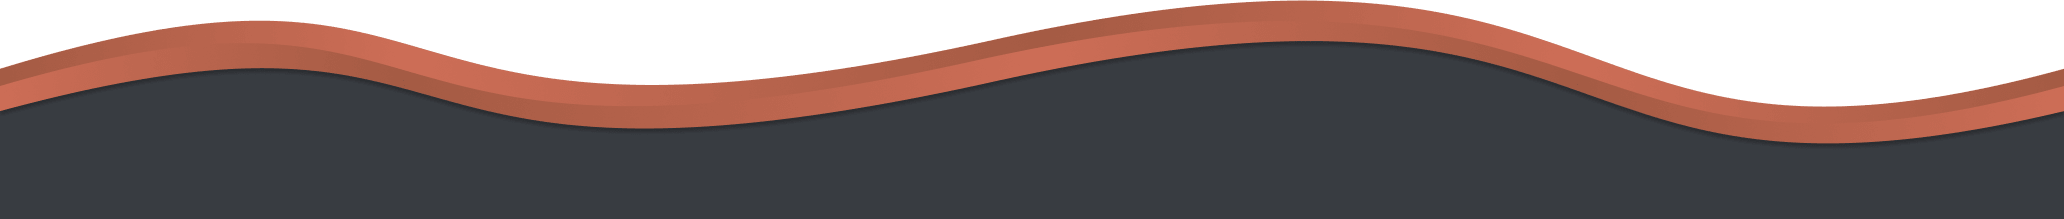
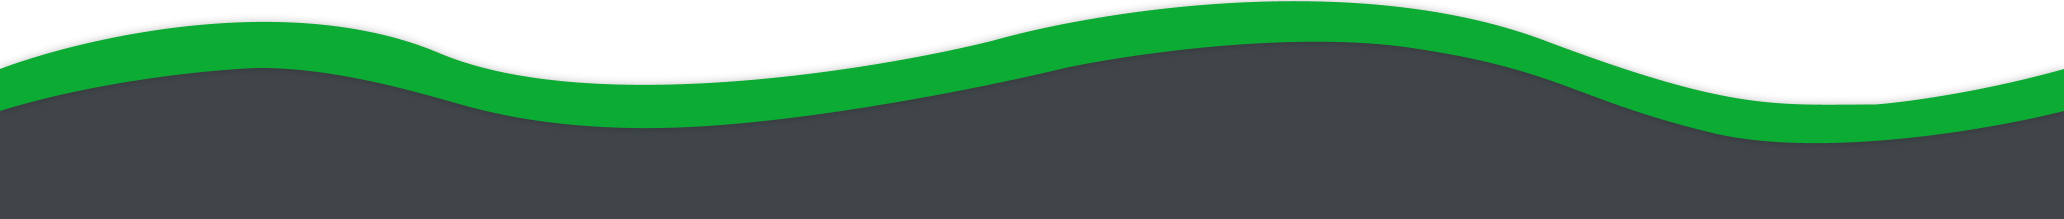
🚀 optimisation animation site

Changed region(s): [[0.0, 0.0, 1.0, 0.6575]]

diff --git a/src/components/features/features.jsx b/src/components/features/features.jsx
@@ -25,9 +25,11 @@ export const Features = () => {
                     <div className="content">
                         <div className="title">
                             <h3>Action Réaction</h3> 
+                            <a href="/commandes">
                             <svg width="36" height="29" viewBox="0 0 36 29" fill="none" xmlns="http://www.w3.org/2000/svg" className="show-commands">
-                                <path fillRule="evenodd" clipRule="evenodd" d="M7.02431 0.524414H0V7.52441H7.02431V0.524414ZM35.9998 0.524414H10.5366V7.52441H35.9998V0.524414ZM0 11.0244H7.02431V18.0244H0V11.0244ZM35.9998 11.0244H10.5366V18.0244H35.9998V11.0244ZM0 21.5244H7.02431V28.5244H0V21.5244ZM35.9998 21.5244H10.5366V28.5244H35.9998V21.5244Z" fill="var(--color-principal)"></path>
+                            <path fillRule="evenodd" clipRule="evenodd" d="M7.02431 0.524414H0V7.52441H7.02431V0.524414ZM35.9998 0.524414H10.5366V7.52441H35.9998V0.524414ZM0 11.0244H7.02431V18.0244H0V11.0244ZM35.9998 11.0244H10.5366V18.0244H35.9998V11.0244ZM0 21.5244H7.02431V28.5244H0V21.5244ZM35.9998 21.5244H10.5366V28.5244H35.9998V21.5244Z" fill="var(--color-principal)"></path>
                             </svg>
+                            </a>
                         </div> 
                         <p>Un message de Bonjour / Bonne Nuit et BounsBot réagit !!!</p>
                     </div>
@@ -36,9 +38,11 @@ export const Features = () => {
                     <div className="content">
                         <div className="title">
                             <h3>Niveaux et points d'XP</h3> 
+                            <a href="/commandes#levelCommande">
                             <svg width="36" height="29" viewBox="0 0 36 29" fill="none" xmlns="http://www.w3.org/2000/svg" className="show-commands">
                                 <path fillRule="evenodd" clipRule="evenodd" d="M7.02431 0.524414H0V7.52441H7.02431V0.524414ZM35.9998 0.524414H10.5366V7.52441H35.9998V0.524414ZM0 11.0244H7.02431V18.0244H0V11.0244ZM35.9998 11.0244H10.5366V18.0244H35.9998V11.0244ZM0 21.5244H7.02431V28.5244H0V21.5244ZM35.9998 21.5244H10.5366V28.5244H35.9998V21.5244Z" fill="var(--color-principal)"></path>
-                            </svg>
+                                </svg>
+                                </a>
                         </div> 
                         <p>Laissez vos membres se démarquer sur votre serveur grâce au système de Leveling.<br/>Vous pourrez afficher le classement.</p>
                     </div>
@@ -49,9 +53,11 @@ export const Features = () => {
                     <div className="content">
                         <div className="title">
                             <h3>Musique, Playlist, Radio</h3> 
+                            <a href="/commandes#musiqueCommande">
                             <svg width="36" height="29" viewBox="0 0 36 29" fill="none" xmlns="http://www.w3.org/2000/svg" className="show-commands">
-                                <path fillRule="evenodd" clipRule="evenodd" d="M7.02431 0.524414H0V7.52441H7.02431V0.524414ZM35.9998 0.524414H10.5366V7.52441H35.9998V0.524414ZM0 11.0244H7.02431V18.0244H0V11.0244ZM35.9998 11.0244H10.5366V18.0244H35.9998V11.0244ZM0 21.5244H7.02431V28.5244H0V21.5244ZM35.9998 21.5244H10.5366V28.5244H35.9998V21.5244Z" fill="var(--color-principal)"></path>
+                            <path fillRule="evenodd" clipRule="evenodd" d="M7.02431 0.524414H0V7.52441H7.02431V0.524414ZM35.9998 0.524414H10.5366V7.52441H35.9998V0.524414ZM0 11.0244H7.02431V18.0244H0V11.0244ZM35.9998 11.0244H10.5366V18.0244H35.9998V11.0244ZM0 21.5244H7.02431V28.5244H0V21.5244ZM35.9998 21.5244H10.5366V28.5244H35.9998V21.5244Z" fill="var(--color-principal)"></path>
                             </svg>
+                            </a>
                         </div> 
                         <p>Un bot musique acceptant les Liens Youtube / Fichier Externe (.mp3 / .mp4 / .flac / .ogg / .aac / .webm / .wav)<br/>Plus de 40 radio disponibles !!<br/>Crée / Modifier / Jouer une playlist.</p>
                     </div>
@@ -60,9 +66,11 @@ export const Features = () => {
                     <div className="content">
                         <div className="title">
                             <h3>Moderation</h3> 
+                            <a href="/commandes#ModerationCommande">
                             <svg width="36" height="29" viewBox="0 0 36 29" fill="none" xmlns="http://www.w3.org/2000/svg" className="show-commands">
                                 <path fillRule="evenodd" clipRule="evenodd" d="M7.02431 0.524414H0V7.52441H7.02431V0.524414ZM35.9998 0.524414H10.5366V7.52441H35.9998V0.524414ZM0 11.0244H7.02431V18.0244H0V11.0244ZM35.9998 11.0244H10.5366V18.0244H35.9998V11.0244ZM0 21.5244H7.02431V28.5244H0V21.5244ZM35.9998 21.5244H10.5366V28.5244H35.9998V21.5244Z" fill="var(--color-principal)"></path>
                             </svg>
+                            </a>
                         </div> 
                         <p>Des logs de qualité avec les message supprimé / modifié, mais aussi les logs de cam et meme de partage d'ecran<br/>Auto Rename lorsqu'un pseudo contient des caractères spéciaux<br/>Nettoyer le tchat avec efficacité avec la commande "clear".</p>
                     </div>
@@ -73,9 +81,11 @@ export const Features = () => {
                     <div className="content">
                         <div className="title">
                             <h3>Twitch vers Discord</h3> 
+                            <a href="/commandes#configCommande">
                             <svg width="36" height="29" viewBox="0 0 36 29" fill="none" xmlns="http://www.w3.org/2000/svg" className="show-commands">
-                                <path fillRule="evenodd" clipRule="evenodd" d="M7.02431 0.524414H0V7.52441H7.02431V0.524414ZM35.9998 0.524414H10.5366V7.52441H35.9998V0.524414ZM0 11.0244H7.02431V18.0244H0V11.0244ZM35.9998 11.0244H10.5366V18.0244H35.9998V11.0244ZM0 21.5244H7.02431V28.5244H0V21.5244ZM35.9998 21.5244H10.5366V28.5244H35.9998V21.5244Z" fill="var(--color-principal)"></path>
+                            <path fillRule="evenodd" clipRule="evenodd" d="M7.02431 0.524414H0V7.52441H7.02431V0.524414ZM35.9998 0.524414H10.5366V7.52441H35.9998V0.524414ZM0 11.0244H7.02431V18.0244H0V11.0244ZM35.9998 11.0244H10.5366V18.0244H35.9998V11.0244ZM0 21.5244H7.02431V28.5244H0V21.5244ZM35.9998 21.5244H10.5366V28.5244H35.9998V21.5244Z" fill="var(--color-principal)"></path>
                             </svg>
+                            </a>
                         </div> 
                         <p>Retranscrire le tchat Twitch d'une chaine sur un channel Discord <br/>Les badges et les liens sont aussi retranscrit sur Discord<br/>Si un message est supprimer ou si un utilisateur et timeout/ban ces messages seront instant supprimer sur discord.</p>
                     </div>
@@ -84,9 +94,11 @@ export const Features = () => {
                     <div className="content">
                         <div className="title">
                             <h3>Salon temporaires</h3> 
+                            <a href="/commandes#tempChannelCommande">
                             <svg width="36" height="29" viewBox="0 0 36 29" fill="none" xmlns="http://www.w3.org/2000/svg" className="show-commands">
                                 <path fillRule="evenodd" clipRule="evenodd" d="M7.02431 0.524414H0V7.52441H7.02431V0.524414ZM35.9998 0.524414H10.5366V7.52441H35.9998V0.524414ZM0 11.0244H7.02431V18.0244H0V11.0244ZM35.9998 11.0244H10.5366V18.0244H35.9998V11.0244ZM0 21.5244H7.02431V28.5244H0V21.5244ZM35.9998 21.5244H10.5366V28.5244H35.9998V21.5244Z" fill="var(--color-principal)"></path>
                             </svg>
+                            </a>
                         </div> 
                         <p>Créer des salons temporaires automatiques, avec un nom prédéfini et une limite de personne par défaut.</p>
                     </div>

diff --git a/src/components/commandes/commandes.jsx b/src/components/commandes/commandes.jsx
@@ -10,10 +10,10 @@ export const Commandes = () => {
             <div className="search search-bar" data-v-7085cbe2=""></div>
         </div>
         <>
-        <p class="home__top__bot__title__desc"><i>Les commandes sont en train d'être remplacé par le nouveau système de Slash Commandes integré à Discord</i></p>
+        <p class="home__top__bot__title__desc"><i>Toutes les commandes sont maintenant disponibles en slash commande</i></p>
         <Table striped bordered hover variant="dark">
             <thead>
-                <tr><th className="titleCommand" colSpan="2">ㆍMusique</th></tr>
+                <tr><th className="titleCommand" id="musiqueCommande" colSpan="2">ㆍMusique</th></tr>
             </thead>
             <tbody>
                 <tr>
@@ -22,7 +22,7 @@ export const Commandes = () => {
                 </tr>
                 <tr>
                     <td>-stop</td>
-                    <td>Arreté la musique en train d'etre joué</td>
+                    <td>Arreter la musique en train d'etre joué</td>
                 </tr>
                 <tr>
                     <td>-dj (@user / Id User)</td>
@@ -92,7 +92,7 @@ export const Commandes = () => {
         </Table>
         <Table striped bordered hover variant="dark">
             <thead>
-                <tr><th className="titleCommand" colSpan="2">ㆍRadio</th></tr>{/*  <a className="testRadio" href="./demo">Demo</a> */}
+                <tr><th className="titleCommand" id="radioCommande" colSpan="2">ㆍRadio</th></tr>{/*  <a className="testRadio" href="./demo">Demo</a> */}
             </thead>
             <tbody>
                 <tr>
@@ -111,7 +111,7 @@ export const Commandes = () => {
         </Table>
         <Table striped bordered hover variant="dark">
             <thead>
-                <tr><th className="titleCommand" colSpan="2">ㆍPlaylist </th></tr> {/* <a className="testRadio" href="./playlist">Liste</a> */}
+                <tr><th className="titleCommand" id="playlistCommande" colSpan="2">ㆍPlaylist </th></tr> {/* <a className="testRadio" href="./playlist">Liste</a> */}
             </thead>
             <tbody>
                 <tr>
@@ -146,7 +146,7 @@ export const Commandes = () => {
         </Table>
         <Table striped bordered hover variant="dark">
             <thead>
-                <tr><th className="titleCommand" colSpan="2">ㆍChannel Temporaire</th></tr>
+                <tr><th className="titleCommand" id="tempChannelCommande" colSpan="2">ㆍChannel Temporaire</th></tr>
             </thead>
             <tbody>
                 <tr>
@@ -169,7 +169,7 @@ export const Commandes = () => {
         </Table>
         <Table striped bordered hover variant="dark">
             <thead>
-                <tr><th className="titleCommand" colSpan="2">ㆍConfiguration</th></tr>
+                <tr><th className="titleCommand" id="configCommande" colSpan="2">ㆍConfiguration</th></tr>
             </thead>
             <tbody>
                 <tr>
@@ -224,7 +224,7 @@ export const Commandes = () => {
         </Table>
         <Table striped bordered hover variant="dark">
             <thead>
-                <tr><th className="titleCommand" colSpan="2">ㆍLevel</th></tr>
+                <tr><th className="titleCommand" id="levelCommande" colSpan="2">ㆍLevel</th></tr>
             </thead>
             <tbody>
                 <tr>
@@ -247,7 +247,7 @@ export const Commandes = () => {
         </Table>
         <Table striped bordered hover variant="dark">
             <thead>
-                <tr><th className="titleCommand" colSpan="2">ㆍAdministration</th></tr>
+                <tr><th className="titleCommand" id="AdministrateurCommande" colSpan="2">ㆍAdministrateur</th></tr>
             </thead>
             <tbody>
                 <tr>
@@ -270,7 +270,7 @@ export const Commandes = () => {
         </Table>
         <Table striped bordered hover variant="dark">
             <thead>
-                <tr><th className="titleCommand" colSpan="2">ㆍModération</th></tr>
+                <tr><th className="titleCommand" id="ModerationCommande" colSpan="2">ㆍModération</th></tr>
             </thead>
             <tbody>
                 <tr>
@@ -293,7 +293,7 @@ export const Commandes = () => {
         </Table>
         <Table striped bordered hover variant="dark">
             <thead>
-                <tr><th className="titleCommand" colSpan="2">ㆍBot</th></tr>
+                <tr><th className="titleCommand" id="botCommande" colSpan="2">ㆍBot</th></tr>
             </thead>
             <tbody>
                 <tr>
@@ -320,7 +320,7 @@ export const Commandes = () => {
         </Table>
         <Table striped bordered hover variant="dark">
             <thead>
-                <tr><th className="titleCommand" colSpan="2">ㆍGame</th></tr>
+                <tr><th className="titleCommand" id="gameCommande" colSpan="2">ㆍGame</th></tr>
             </thead>
             <tbody>
                 <tr>
@@ -339,7 +339,7 @@ export const Commandes = () => {
         </Table>
         <Table striped bordered hover variant="dark">
             <thead>
-                <tr><th className="titleCommand" colSpan="2">ㆍOthers</th></tr>
+                <tr><th className="titleCommand" id="otherCommande" colSpan="2">ㆍOthers</th></tr>
             </thead>
             <tbody>
                 <tr>
@@ -410,7 +410,7 @@ export const Commandes = () => {
         </Table>
         <Table striped bordered hover variant="dark">
             <thead>
-                <tr><th className="titleCommand" colSpan="2">ㆍ Advance</th></tr>
+                <tr><th className="titleCommand" id="advanceCommande" colSpan="2">ㆍ Advance</th></tr>
             </thead>
             <tbody>
                 <tr>

diff --git a/src/components/homepage/_homepage.css b/src/components/homepage/_homepage.css
@@ -1,7 +1,7 @@
 .home__top__bot__invite {
     padding: 14px 18px 14px 18px;
     color: #fff;
-    background-color: var(--color-principal) ;
+    background-color: var(--color-principal);
     border-radius: 4px;
     text-decoration: none;
     position: relative;
@@ -16,11 +16,11 @@
     transition: transform 330ms ease-in-out;
 }
 
-.WaveColor{
+.WaveColor {
     fill: var(--color-principal);
 }
 
-.home__top__bot__invite:hover{
+.home__top__bot__invite:hover {
     transform: scale(1.10);
 }
 
@@ -29,7 +29,7 @@
 }
 
 .home__top__bot__title__desc {
-    color: hsla(0,0%,100%,.7);
+    color: hsla(0, 0%, 100%, .7);
     font-size: 20px;
     text-align: center;
     margin: 20px 0 0;
@@ -68,12 +68,12 @@
     animation: run 1s ease-out 0s 1;
 }
 
-.home__top__bot img{
+.home__top__bot img {
     /* transition: transform 530ms ease-in-out; */
     animation: resparaiton 2s infinite both;
 }
 
-.home__top__bot img:hover{
+.home__top__bot img:hover {
     transform: rotate(100px);
     /* rotate: 1200px; */
     /* scale(1.10) */
@@ -83,6 +83,7 @@
     50% {
         transform: scale(1.05);
     }
+
     100% {
         transform: scale(1);
     }
@@ -103,7 +104,7 @@
 }
 
 .home__top__bot__title__activities span {
-    color: var(--color-principal) ;
+    color: var(--color-principal);
     font-size: 30px;
     left: 0;
     opacity: 0;
@@ -128,7 +129,7 @@
 
 .home__top .wave {
     position: absolute;
-    background: url(wave.svg) repeat-x;
+    background: url(wave.png) repeat-x;
     bottom: -50px;
     left: 0;
     right: 0;
@@ -138,11 +139,13 @@
     animation: wave 30s linear infinite;
     z-index: 3;
 }
+
 /* 6192px */
-@keyframes wave{
+@keyframes wave {
     0% {
         background-position: 6192px 0;
     }
+
     100% {
         background-position: 0 0;
     }

diff --git a/src/components/homepage/homepage.jsx b/src/components/homepage/homepage.jsx
@@ -4,7 +4,7 @@ import AnimationText from "../animationtext/animationtext";
 
 export const HomePage = () => {
     return (
-        <div id="head" className ="home__top">
+        <div id="head" className="home__top">
             <div className ="home__top__bot">
                 <img
                 alt="logo"
